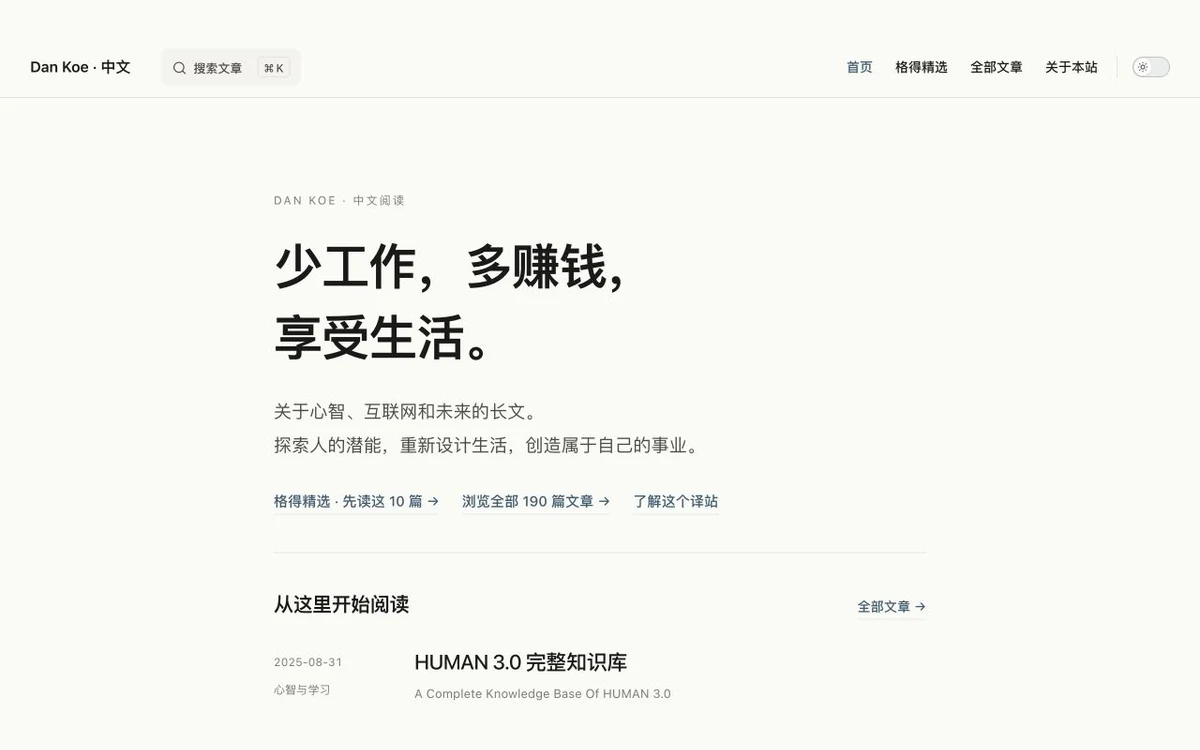
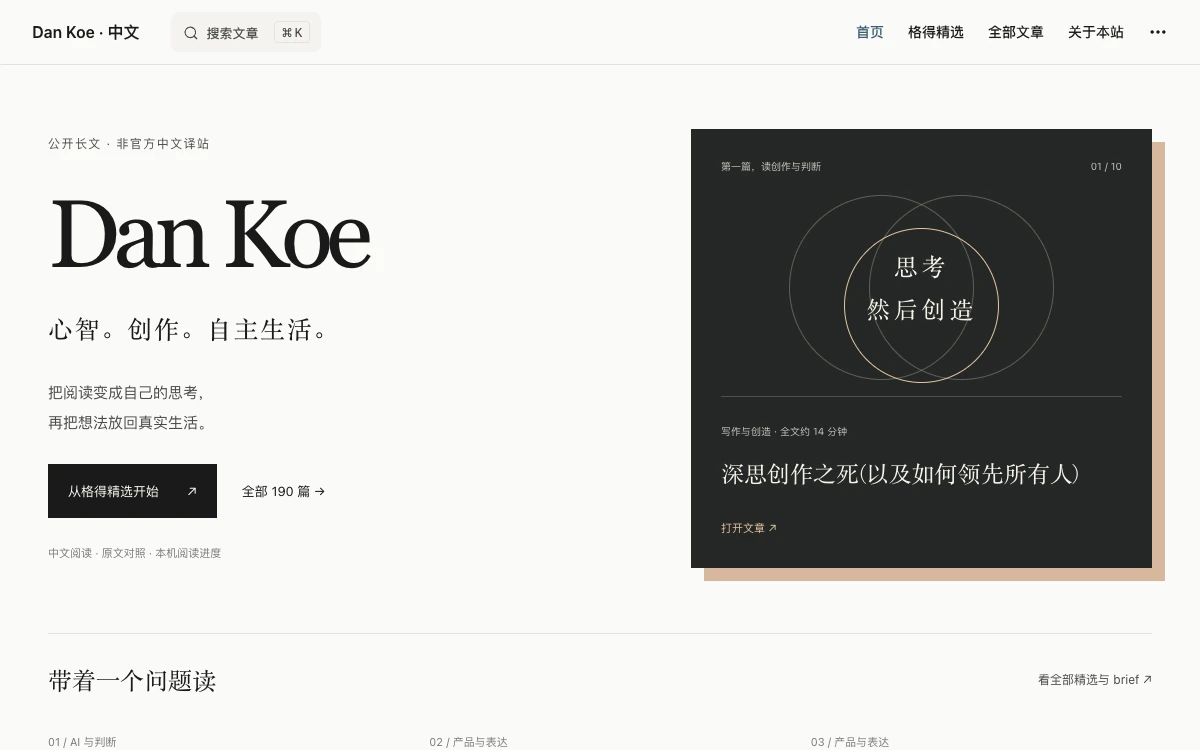
更新五个阅读网站的真实首页封面

diff --git a/docs/ASSETS.md b/docs/ASSETS.md
@@ -151,3 +151,7 @@
 ## 2026-10-09 中文字体更新
 
 以固定Google Fonts来源生成 `hi-song.woff2` / `hi-sans.woff2`，替换历史307字符宋体子集。来源、SHA-256、OFL与字集见 `scripts/font-manifest.json`；决策与维护见 [中文字体记录](design/2026-10-09-chinese-type/README.md)。两套独立OFL在public/fonts中保留。
+
+## 阅读类首页与封面更新（2026-10-09）
+
+你品、WBW、Dan Koe、AI教育、完美通关分别完成首页优化与正式域名回读后，从匿名首次访问环境采集1200×750真实页面，原尺寸转WebP quality90。没有改写截图内文案或拼接不存在的功能，也未读取/清除个人阅读进度。封面src附图片哈希版本以避免旧图缓存，旧宣传片本轮未重制。五图来源、SHA及对应网站部署见 [封面回执](releases/2026-10-09-reading-covers-assets.json)。你品已与“提升 Taste 网站设计”任务合并发布；其他四站各自保存首页与发布记录。

diff --git a/CURRENT.md b/CURRENT.md
@@ -1,5 +1,10 @@
 # 当前状态
 
+## 阅读网站首页与封面（2026-10-09，Hi发布回读中）
+
+- 五站分别优化并发布：你品原作入口/阅读路径、WBW问题与原插画、Dan Koe精选文集、AI教育原课程路径、完美通关书封与版本入口。你品由并行设计任务统一收口，其他四站独立提交/发布/回读。
+- 五张Hi封面均为正式站匿名首次访问截图1200×750；更新缓存版本和你品旧alt，未重新制作旧宣传片。来源与站点部署见 [封面回执](docs/releases/2026-10-09-reading-covers-assets.json)。
+
 ## 作品悬停反馈（2026-10-09，已发布并回读）
 
 - 封面/题签悬停：完整封面轻抬3px、放大1.2%与淡阴影，标题朱砂、箭头右移；220ms CSS过渡。触屏hover门控，减少动态去除变换/阴影，键盘静态焦点，外部体验链接独立。
